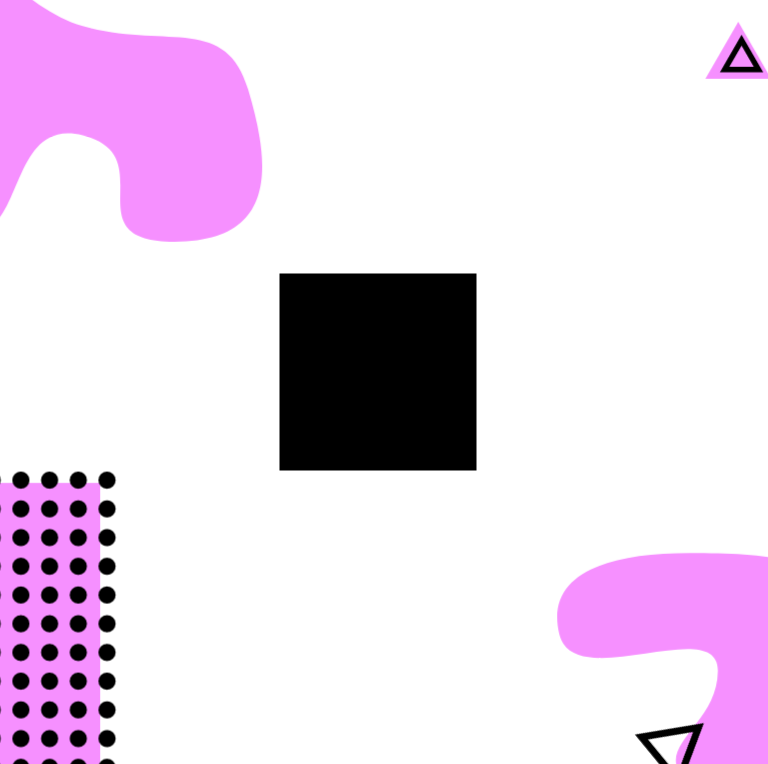
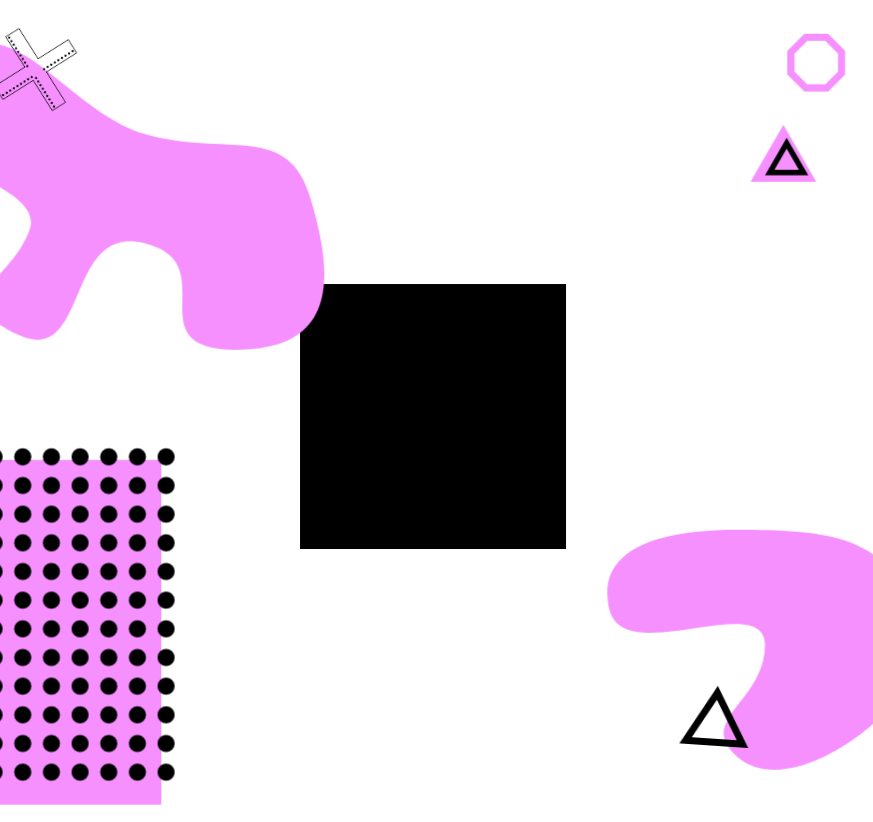
Update readme file

diff --git a/README.md b/README.md
@@ -23,6 +23,8 @@ Or set `greeter-session=lightdm-webkit2-greeter` in `/etc/lightdm/lightdm.conf`,
 ## Screenshots 🎉
 ![Fire](https://user-images.githubusercontent.com/33872448/73587854-edff3300-44d1-11ea-9476-f81dd690dd97.png)
 ![Mars](https://user-images.githubusercontent.com/33872448/73587857-fd7e7c00-44d1-11ea-8293-5e8b9f0c1373.png)
+![malevich](https://user-images.githubusercontent.com/33872448/74682761-0d87a280-51d8-11ea-97cc-6849a22d8ee1.png)
+![polygon](https://user-images.githubusercontent.com/33872448/74682767-0eb8cf80-51d8-11ea-9c0b-c1ac126533a0.png)
 ![Osmos](https://user-images.githubusercontent.com/33872448/73587858-fd7e7c00-44d1-11ea-8a84-cf2686b0e9f9.png)
 ![Sahara](https://user-images.githubusercontent.com/33872448/73587859-fe171280-44d1-11ea-8336-aa9163b5ffd1.png)
 ![Space](https://user-images.githubusercontent.com/33872448/73587860-fe171280-44d1-11ea-9a4c-16b05bcdf6e2.png)
